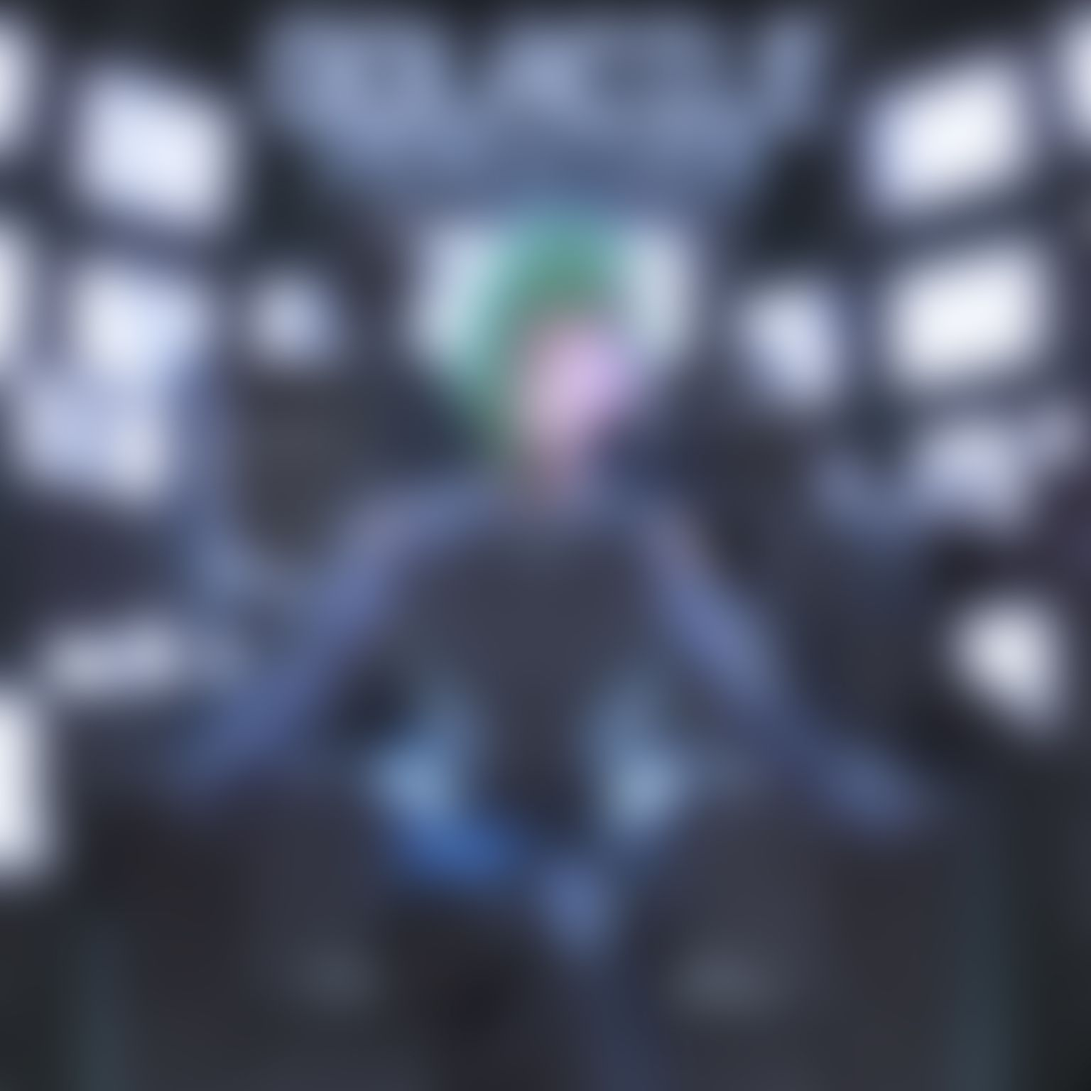
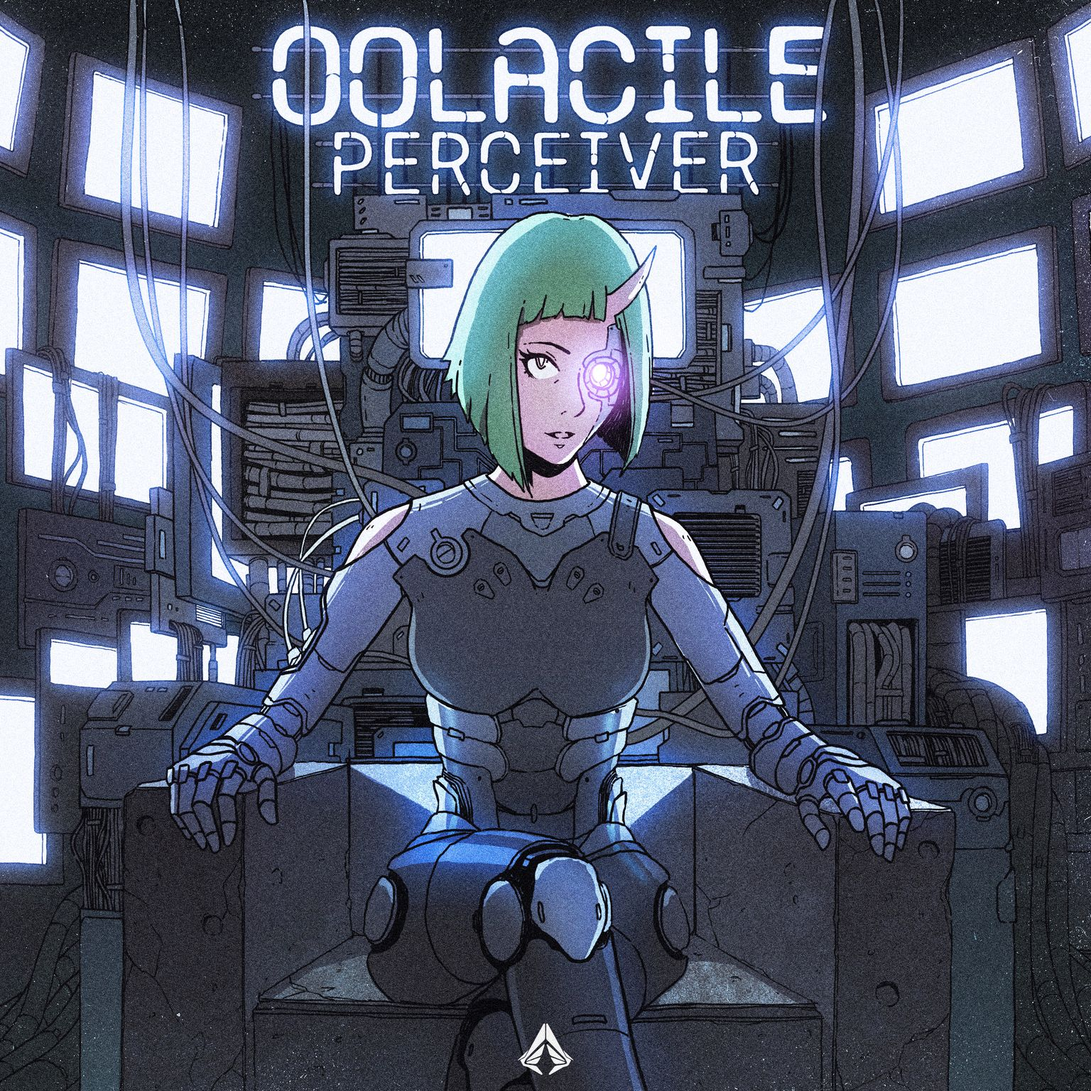
Added oolacile perciever

diff --git a/src/CONSTANTS.js b/src/CONSTANTS.js
@@ -17,7 +17,7 @@ const RELEASES = [
   new Release("HALCYON SOUND VOL 1", "3.jpeg", "https://go.halcyon.fm/hsv1"),
   new Release("AWEMINUS - PACMAN BULLSHIT", "4.jpeg", "https://go.halcyon.fm/pacmanbs"),
   new Release("BVSSIC - ELYSIUM", "5.jpeg", "https://go.halcyon.fm/elysium"),
-  new Release("???", "6.jpeg", ""),
+  new Release("OOLACILE - PRCVR", "6.jpeg", "https://go.halcyon.fm/prcvr"),
 ]
 
 const SCROLL_OFFSETS = [
